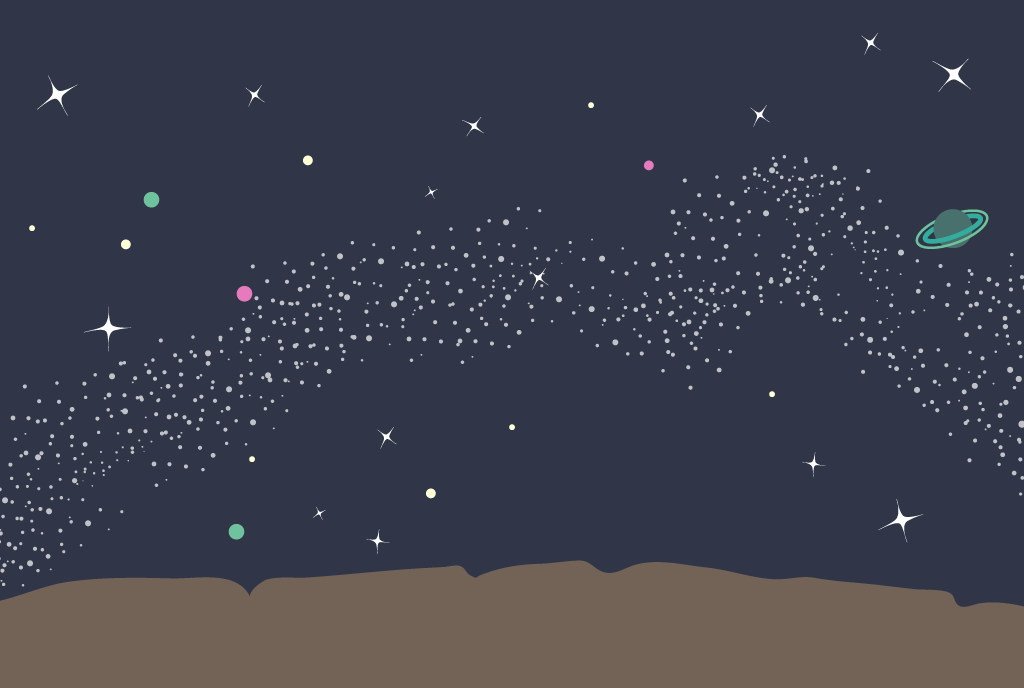
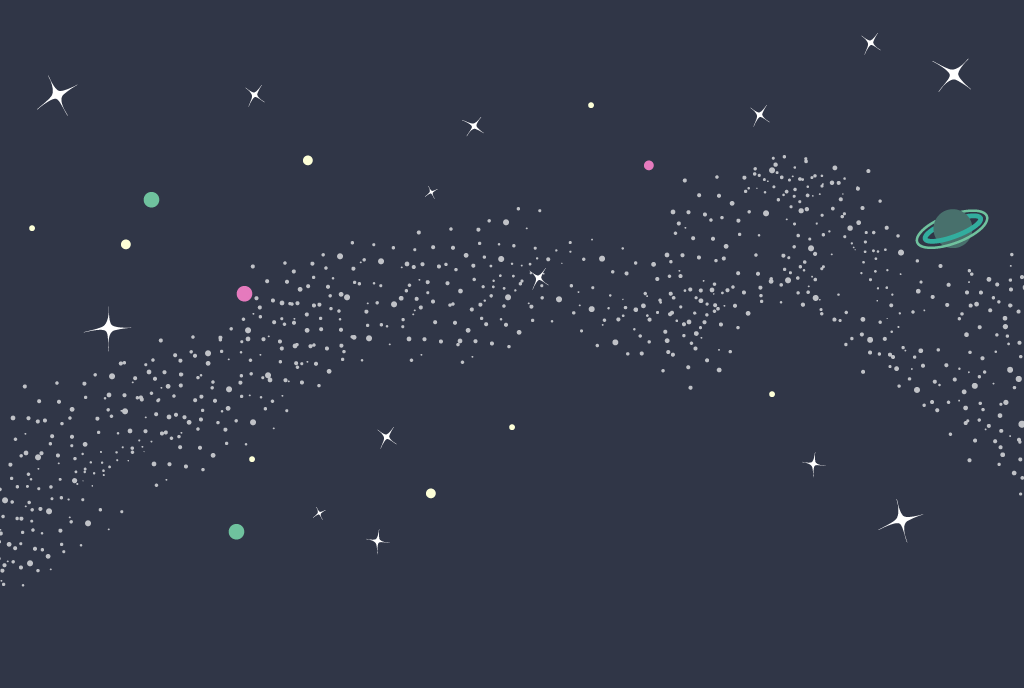
spacerun: moving ground

Changed region(s): [[0.0, 0.7936, 1.0, 1.0]]

diff --git a/game/states/spaceScene.js b/game/states/spaceScene.js
@@ -29,6 +29,9 @@ var firstReflectorCollected = false;
       this.sadSound = this.add.audio('hyi_2');
 
       this.add.sprite(0, 0, 'spacerun_bg');
+      this.ground = this.game.add.tileSprite(0, 561, 1024, 127, 'spacerun_ground');
+      this.ground.autoScroll(-100,0);
+
       this.backButton = this.add.button(899, 23, 'exit_btn' , this.startPlayroom, this);
       reflectorGroup = this.game.add.group();
       badObjectGroup = this.game.add.group();

diff --git a/game/states/preload.js b/game/states/preload.js
@@ -140,6 +140,7 @@ Preload.prototype = {
     this.load.audio('plop_1', 'assets/sounds/plop_1.wav');
     this.load.audio('putkea_alas_1', 'assets/sounds/putkea_alas_1.wav');
     this.load.audio('putkea_alas_2', 'assets/sounds/putkea_alas_2.wav');
+    this.load.image('spacerun_ground', 'assets/img/SpaceRun/spacerun_ground.png');
 
   },
   create: function() {
